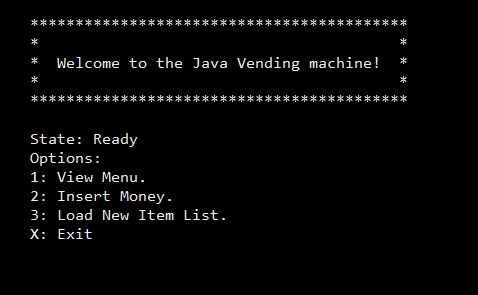
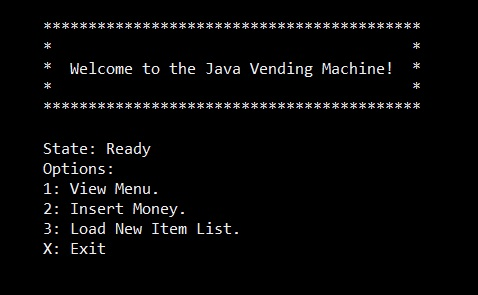
Spelling Corrections and Welcome Image Updated

diff --git a/src/main/java/com/ritchie/james/View/UserInterface.java b/src/main/java/com/ritchie/james/View/UserInterface.java
@@ -27,7 +27,7 @@ public class UserInterface {
         System.out.println("""
                 ******************************************
                 *                                        *
-                *  Welcome to the Java Vending machine!  *
+                *  Welcome to the Java Vending Machine!  *
                 *                                        *
                 ******************************************""");
     }
